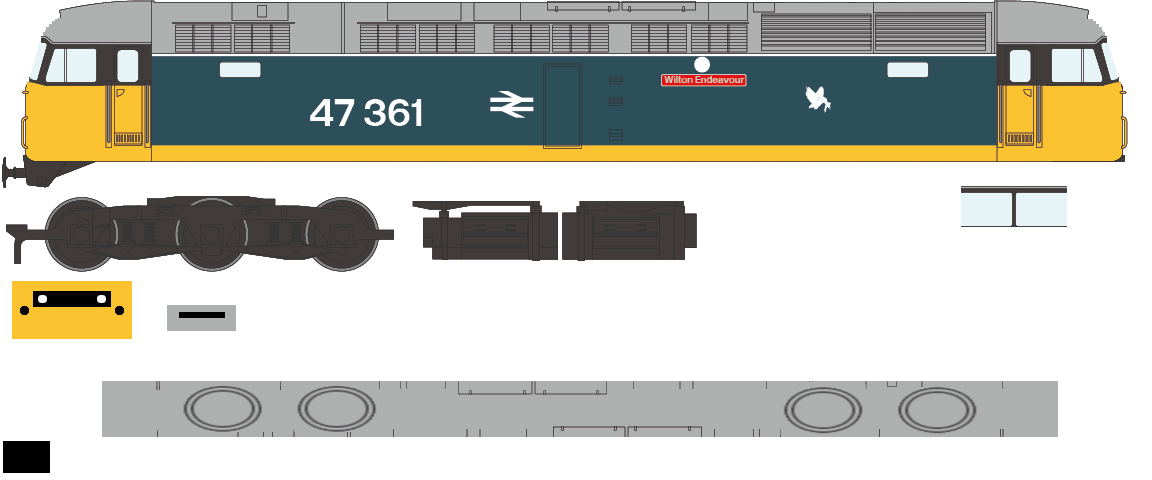
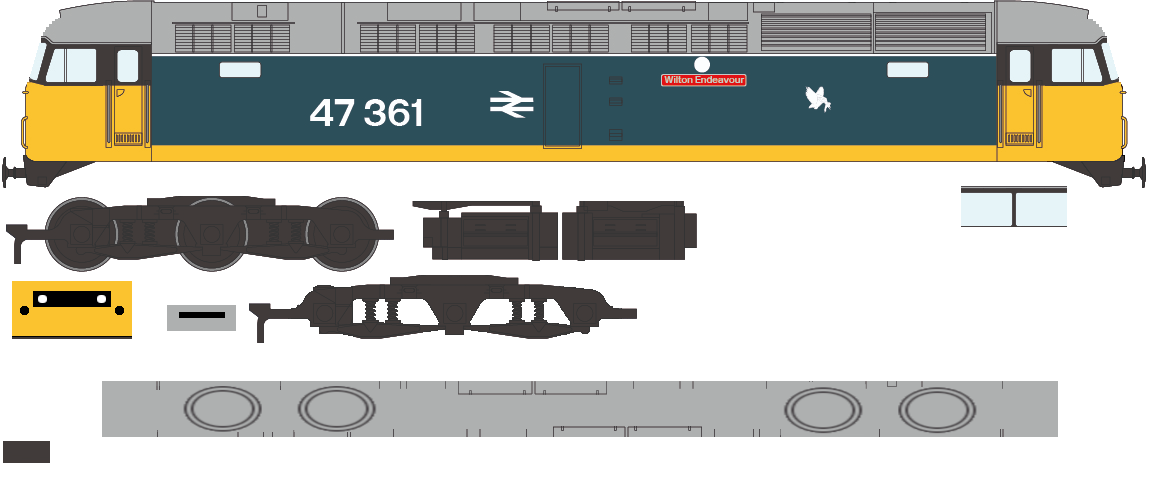
Named model parts, fix bogie spelling, new brush47 model

diff --git a/game/vehicles/railloco.cpp b/game/vehicles/railloco.cpp
@@ -10,6 +10,7 @@
 #include <glm/glm.hpp>
 #include <iterator>
 #include <lib/resource.h>
+#include <map>
 #include <maths.h>
 #include <memory>
 #include <random>
@@ -21,9 +22,9 @@ void
 RailVehicle::render(const Shader & shader) const
 {
 	texture->Bind();
-	for (const auto & bogey : bogeys) {
-		shader.setModel(bogey.location.GetModel());
-		bogey.mesh->Draw();
+	for (const auto & bogie : bogies) {
+		shader.setModel(bogie.location.GetModel());
+		bogie.mesh->Draw();
 	}
 	shader.setModel(location.GetModel());
 	bodyMesh->Draw();
@@ -54,7 +55,7 @@ RailLoco::move(TickDuration dur)
 }
 
 Transform
-RailLoco::getBogeyPosition(float linkDist, float dist) const
+RailLoco::getBogiePosition(float linkDist, float dist) const
 {
 	float b2linkDist {};
 	const auto b2Link = linkHist.getAt(dist - linkDist, &b2linkDist);
@@ -65,8 +66,8 @@ void
 RailLoco::updateRailVehiclePosition(RailVehicle * w, float trailBy) const
 {
 	const auto overhang {(w->length - w->wheelBase) / 2};
-	const auto & b1Pos = w->bogeys[0].location = getBogeyPosition(linkDist, trailBy += overhang);
-	const auto & b2Pos = w->bogeys[1].location = getBogeyPosition(linkDist, trailBy + wheelBase);
+	const auto & b1Pos = w->bogies[0].location = getBogiePosition(linkDist, trailBy += overhang);
+	const auto & b2Pos = w->bogies[1].location = getBogiePosition(linkDist, trailBy + wheelBase);
 	const auto diff = glm::normalize(b2Pos.GetPos() - b1Pos.GetPos());
 	w->location.GetPos() = (b1Pos.GetPos() + b2Pos.GetPos()) / 2.F;
 	w->location.GetRot() = {-vector_pitch(diff), vector_yaw(diff), 0};
@@ -95,10 +96,10 @@ RailLoco::updateWagons() const
 void RailWagon::tick(TickDuration) { }
 
 void
-bogeyOffset(ObjParser & o)
+bogieOffset(ObjParser & o)
 {
-	// offset bogey positions so they can be set directly
-	for (int b = 1; b < 3; b++) { // bogey object index
+	// offset bogie positions so they can be set directly
+	for (int b = 1; b < 3; b++) { // bogie object index
 		std::set<std::pair<float, int>> vertexIds;
 		for (const auto & face : o.objects[b].second) {
 			for (const auto & faceElement : face) {
@@ -115,25 +116,26 @@ bogeyOffset(ObjParser & o)
 Brush47::Brush47(const LinkPtr & l) : RailLoco(l, 0)
 {
 	ObjParser o {Resource::mapPath("brush47.obj")};
-	bogeyOffset(o);
+	bogieOffset(o);
 	const auto m = o.createMeshes();
-	bodyMesh = m[0].second;
-	bogeys[0].mesh = m[1].second;
-	bogeys[1].mesh = m[2].second;
+	bodyMesh = m.at("Body");
+	bogies[0].mesh = m.at("Bogie1");
+	bogies[1].mesh = m.at("Bogie2");
 	texture = Texture::cachedTexture.get(Resource::mapPath("brush47.png"));
 	wheelBase = 12.F;
 	length = 20.F;
+	speed = 33.6F;
 	linkDist = wheelBase;
 }
 
 Brush47Wagon::Brush47Wagon(const LinkPtr & l) : RailWagon(l, 0)
 {
 	ObjParser o {Resource::mapPath("brush47.obj")};
-	bogeyOffset(o);
+	bogieOffset(o);
 	const auto m = o.createMeshes();
-	bodyMesh = m[0].second;
-	bogeys[0].mesh = m[1].second;
-	bogeys[1].mesh = m[2].second;
+	bodyMesh = m.at("Body");
+	bogies[0].mesh = m.at("Bogie1");
+	bogies[1].mesh = m.at("Bogie2");
 	texture = Texture::cachedTexture.get(Resource::mapPath("brush47.png"));
 	wheelBase = 12.F;
 	length = 20.F;

diff --git a/test/test-obj.cpp b/test/test-obj.cpp
@@ -5,6 +5,7 @@
 #include <gfx/models/obj.h>
 #include <gfx/models/vertex.hpp>
 #include <glm/glm.hpp>
+#include <map>
 #include <memory>
 #include <utility>
 #include <vector>
@@ -12,15 +13,15 @@
 BOOST_AUTO_TEST_CASE(objparse)
 {
 	ObjParser op {"/home/randomdan/dev/game/res/brush47.obj"};
-	BOOST_CHECK_EQUAL(48, op.vertices.size());
-	BOOST_CHECK_EQUAL(104, op.texCoords.size());
-	BOOST_CHECK_EQUAL(25, op.normals.size());
+	BOOST_CHECK_EQUAL(75, op.vertices.size());
+	BOOST_CHECK_EQUAL(112, op.texCoords.size());
+	BOOST_CHECK_EQUAL(31, op.normals.size());
 	BOOST_CHECK_EQUAL(3, op.objects.size());
 	const auto & object {op.objects.front()};
 	BOOST_CHECK_EQUAL("Body", object.first);
-	BOOST_CHECK_EQUAL(18, object.second.size());
-	BOOST_CHECK_EQUAL(6, object.second[0].size());
-	BOOST_CHECK_EQUAL(6, object.second[1].size());
+	BOOST_CHECK_EQUAL(21, object.second.size());
+	BOOST_CHECK_EQUAL(8, object.second[0].size());
+	BOOST_CHECK_EQUAL(8, object.second[1].size());
 	BOOST_CHECK_EQUAL(4, object.second[12].size());
 }
 
@@ -29,9 +30,10 @@ BOOST_AUTO_TEST_CASE(create_meshes)
 	ObjParser op {"/home/randomdan/dev/game/res/brush47.obj"};
 	const auto ms = op.createMeshData();
 	BOOST_REQUIRE_EQUAL(3, ms.size());
-	BOOST_REQUIRE_EQUAL("Body", ms.front().first);
-	BOOST_REQUIRE_EQUAL(76, ms.front().second.first.size());
-	const auto & v = ms.front().second.first.front();
+	BOOST_REQUIRE_EQUAL("Body", ms.begin()->first);
+	const auto & o = ms.at("Body");
+	BOOST_REQUIRE_EQUAL(88, o.first.size());
+	const auto & v = o.first.front();
 	BOOST_REQUIRE_CLOSE(1.345, v.pos.x, 1);
-	BOOST_REQUIRE_EQUAL(120, ms.front().second.second.size());
+	BOOST_REQUIRE_EQUAL(138, o.second.size());
 }

diff --git a/gfx/models/obj.impl.cpp b/gfx/models/obj.impl.cpp
@@ -4,27 +4,27 @@
 #include <gfx/models/vertex.hpp>
 #include <glm/glm.hpp>
 #include <iterator>
+#include <map>
 #include <memory>
 #include <utility>
 #include <vector>
 
-std::vector<ObjParser::NamedMesh>
+ObjParser::NamedMeshes
 ObjParser::createMeshes() const
 {
-	std::vector<ObjParser::NamedMesh> out;
+	NamedMeshes out;
 	const auto data {createMeshData()};
-	std::transform(data.begin(), data.end(), std::back_inserter(out), [](auto && obj) {
+	std::transform(data.begin(), data.end(), std::inserter(out, out.end()), [](auto && obj) {
 		return std::make_pair(obj.first, std::make_shared<Mesh>(obj.second.first, obj.second.second));
 	});
 	return out;
 }
 
-std::vector<ObjParser::NamedMeshData>
+ObjParser::NamedMeshesData
 ObjParser::createMeshData() const
 {
-	std::vector<ObjParser::NamedMeshData> out;
-	out.reserve(objects.size());
-	std::transform(objects.begin(), objects.end(), std::back_inserter(out), [this](auto && obj) {
+	NamedMeshesData out;
+	std::transform(objects.begin(), objects.end(), std::inserter(out, out.end()), [this](auto && obj) {
 		std::vector<Vertex> overtices;
 		std::vector<ObjParser::FaceElement> vertexOrder;
 		std::vector<unsigned int> indices;

diff --git a/gfx/models/obj.h b/gfx/models/obj.h
@@ -8,6 +8,7 @@
 #include <filesystem>
 #include <fstream>
 #include <glm/glm.hpp>
+#include <map>
 #include <memory>
 #include <vector>
 
@@ -39,10 +40,10 @@ public:
 	std::vector<Object> objects;
 	glm::length_t axis {0};
 
-	using NamedMeshData = std::pair<std::string, std::pair<std::vector<Vertex>, std::vector<unsigned int>>>;
-	[[nodiscard]] std::vector<NamedMeshData> createMeshData() const;
-	using NamedMesh = std::pair<std::string, std::shared_ptr<const Mesh>>;
-	[[nodiscard]] std::vector<NamedMesh> createMeshes() const;
+	using NamedMeshesData = std::map<std::string, std::pair<std::vector<Vertex>, std::vector<unsigned int>>>;
+	[[nodiscard]] NamedMeshesData createMeshData() const;
+	using NamedMeshes = std::map<std::string, std::shared_ptr<const Mesh>>;
+	[[nodiscard]] NamedMeshes createMeshes() const;
 };
 
 #endif

diff --git a/game/vehicles/railloco.h b/game/vehicles/railloco.h
@@ -12,7 +12,7 @@ class Shader;
 class Texture;
 class RailVehicle : public Vehicle {
 public:
-	struct Bogey {
+	struct Bogie {
 		Transform location;
 		MeshPtr mesh;
 	};
@@ -20,7 +20,7 @@ public:
 	using Vehicle::Vehicle;
 	void render(const Shader & shader) const override;
 
-	std::array<Bogey, 2> bogeys;
+	std::array<Bogie, 2> bogies;
 	MeshPtr bodyMesh;
 	std::shared_ptr<Texture> texture;
 	float wheelBase;
@@ -45,7 +45,7 @@ public:
 
 private:
 	void move(TickDuration dur);
-	[[nodiscard]] Transform getBogeyPosition(float linkDist, float dist) const;
+	[[nodiscard]] Transform getBogiePosition(float linkDist, float dist) const;
 	void updateRailVehiclePosition(RailVehicle *, float trailBy) const;
 	void updateWagons() const;
 };

diff --git a/game/network/rail.cpp b/game/network/rail.cpp
@@ -13,7 +13,7 @@
 #include <type_traits>
 #include <utility>
 
-constexpr std::size_t RAIL_CROSSSECTION_VERTICES {5};
+constexpr auto RAIL_CROSSSECTION_VERTICES {5U};
 constexpr glm::vec3 RAIL_HEIGHT {0, .25F, 0};
 
 RailLinks::RailLinks() : texture {Texture::cachedTexture.get("rails.jpg")} { }
